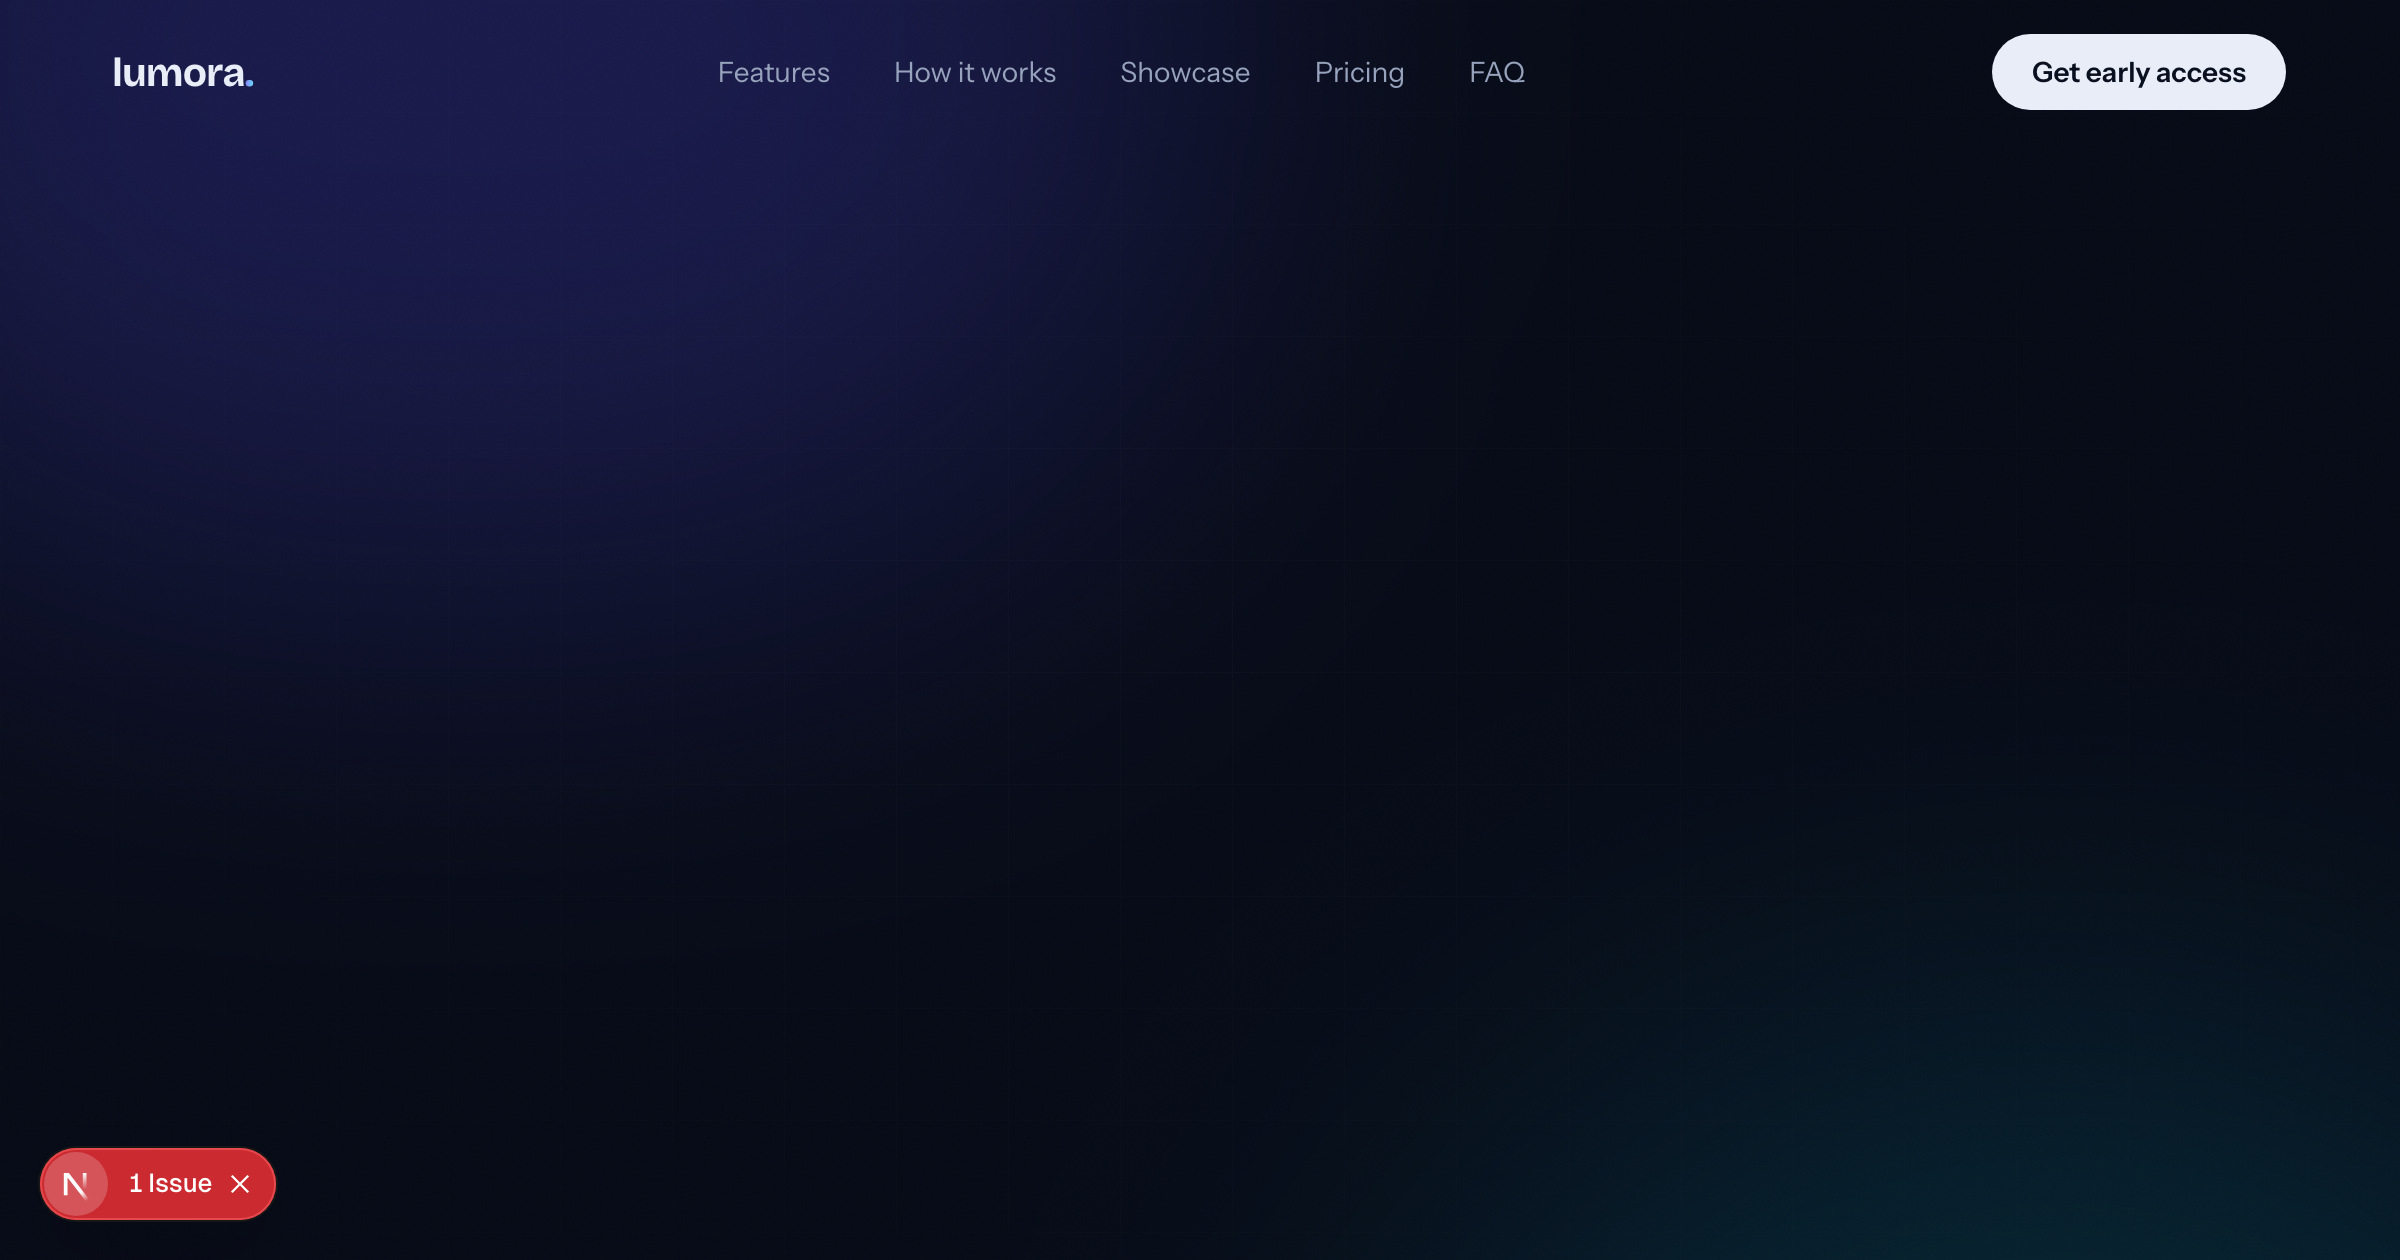
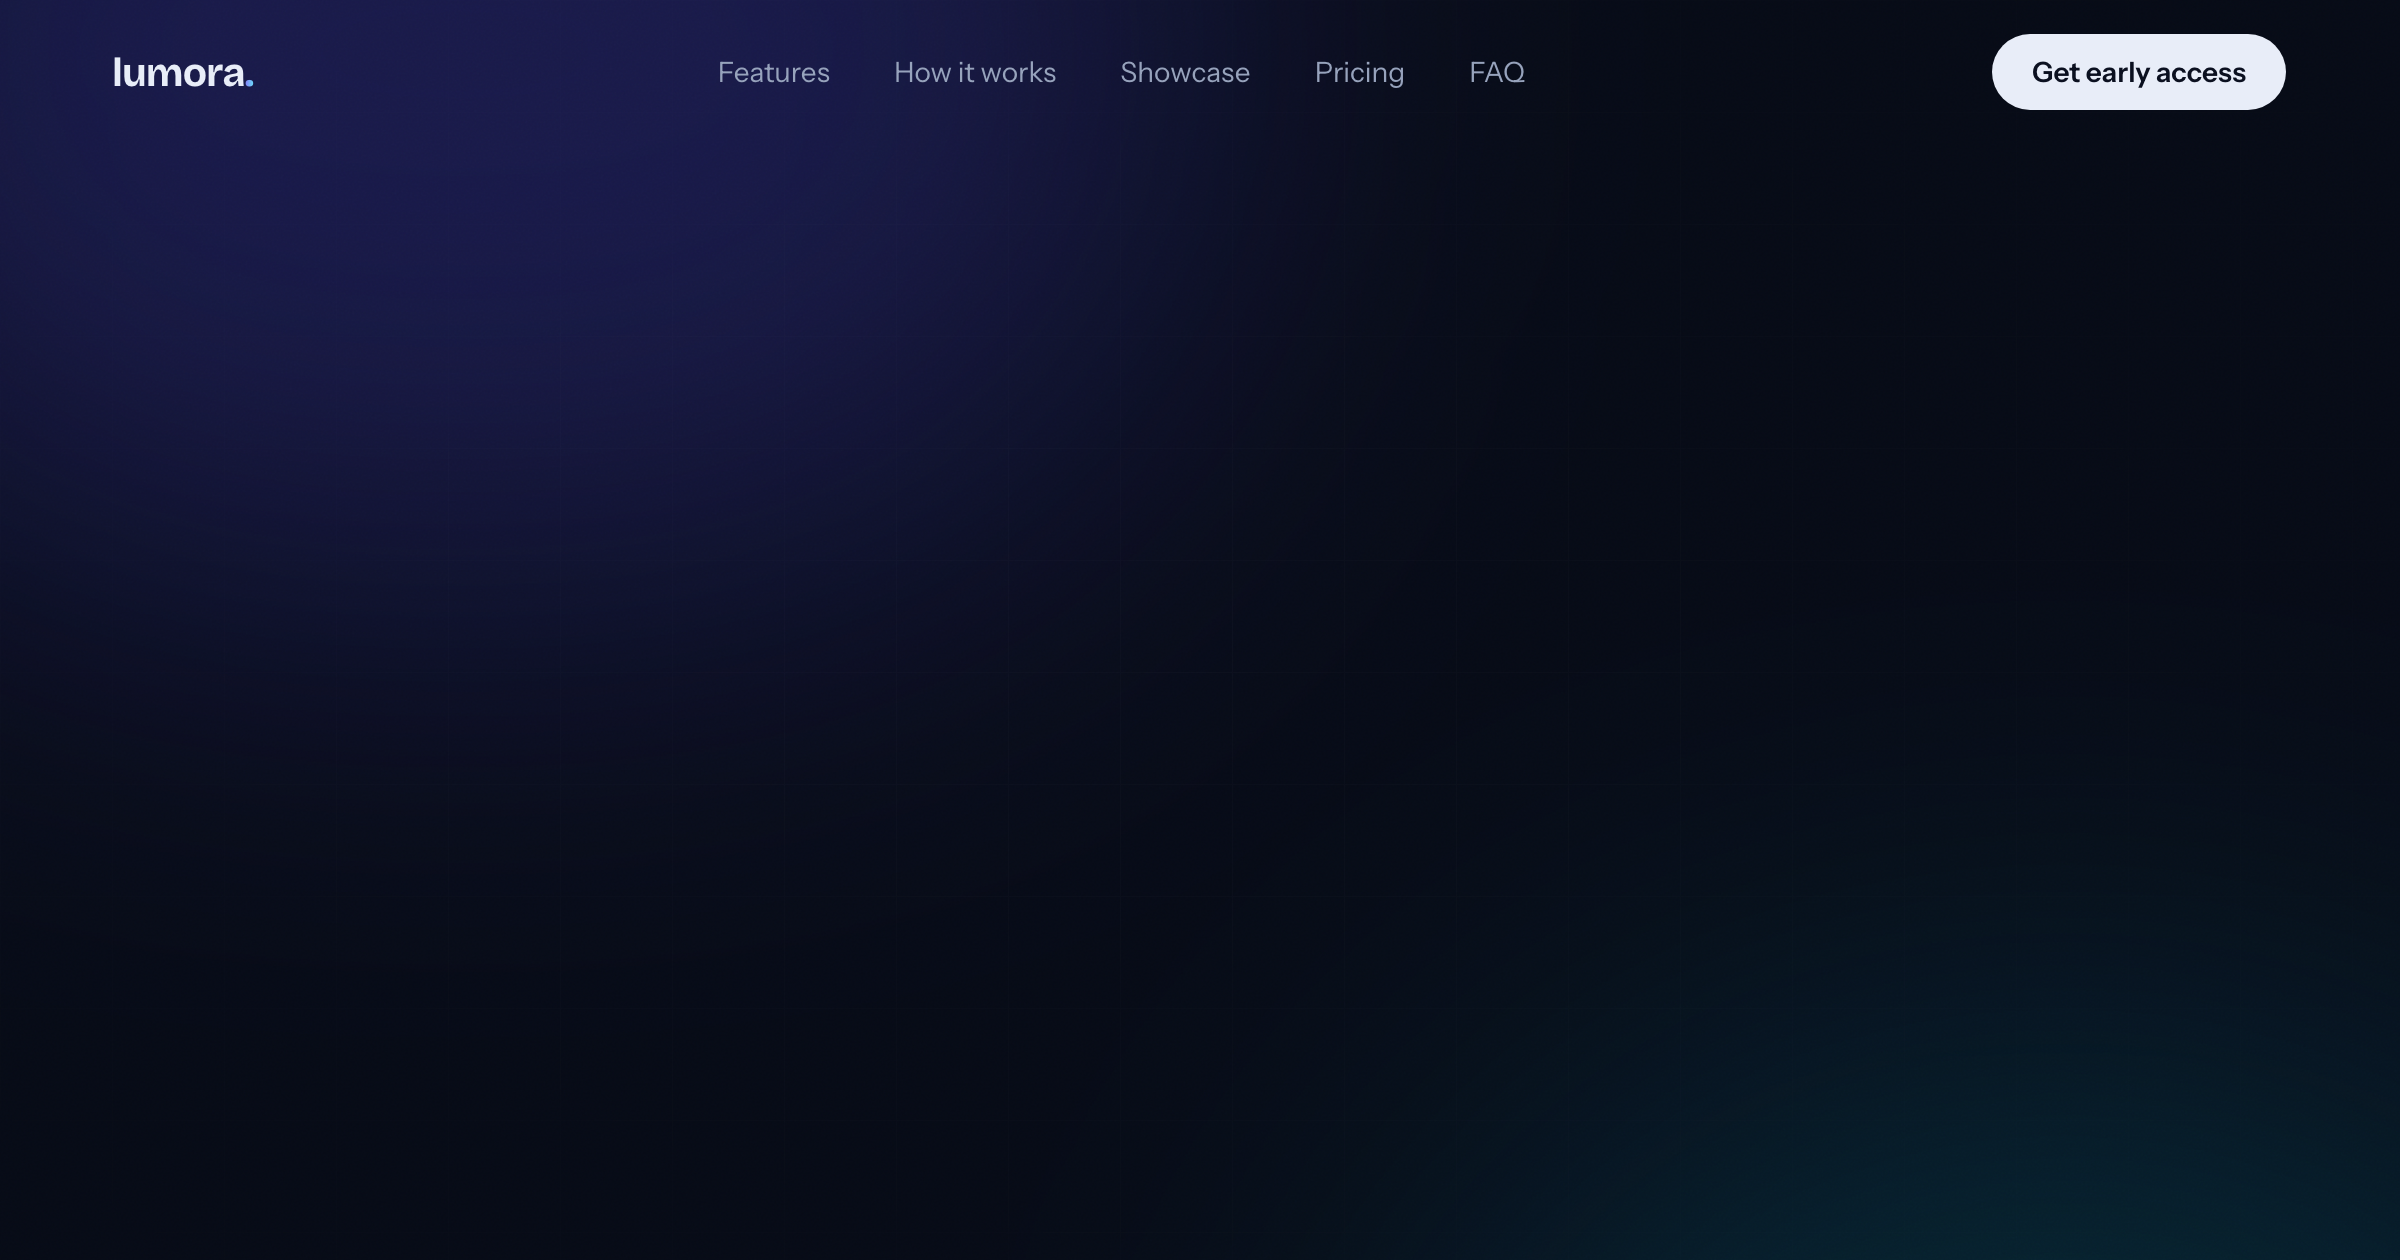
chore(landing): verification pass — reduced-motion fix, metadataBase, prod og
verify-landing PASS at desktop 1440 against the production build. Fixes found
by the pass: entrance wrappers no longer branch DOM shape on useReducedMotion
(hydration race left SSR opacity-0 styles stuck) — a prefers-reduced-motion CSS
rule now forces [data-reveal] visible; metadataBase set to an RFC-2606
placeholder so og/twitter URLs stop baking localhost:3000; og.png recaptured
from the production server. Keyboard pass: skip link, accordion, focus rings.

Changed region(s): [[0.0, 0.8976, 0.125, 0.9905]]

diff --git a/src/components/motion/stagger.tsx b/src/components/motion/stagger.tsx
@@ -1,8 +1,6 @@
 "use client";
 
-import { useReducedMotion } from "motion/react";
 import * as m from "motion/react-m";
-import { cn } from "@/lib/utils";
 
 const EASE = [0.22, 1, 0.36, 1] as const;
 
@@ -15,6 +13,10 @@ type StaggerProps = {
   inView?: boolean;
 };
 
+/**
+ * Staggered entrance group. Like Reveal, it always renders motion divs — the
+ * reduced-motion/no-JS safety net is the CSS rule on [data-reveal].
+ */
 export function Stagger({
   children,
   className,
@@ -22,10 +24,6 @@ export function Stagger({
   step = 0.08,
   inView = true,
 }: StaggerProps) {
-  const reduce = useReducedMotion();
-  if (reduce) {
-    return <div className={className}>{children}</div>;
-  }
   const viewProps = inView
     ? { whileInView: "show" as const, viewport: { once: true, margin: "-80px" } }
     : { animate: "show" as const };
@@ -53,14 +51,10 @@ type StaggerItemProps = {
 };
 
 export function StaggerItem({ children, className, y = 24, x = 0 }: StaggerItemProps) {
-  const reduce = useReducedMotion();
-  if (reduce) {
-    return <div className={className}>{children}</div>;
-  }
   return (
     <m.div
       data-reveal
-      className={cn(className)}
+      className={className}
       variants={{
         hidden: { opacity: 0, y, x },
         show: { opacity: 1, y: 0, x: 0, transition: { duration: 0.7, ease: EASE } },

diff --git a/src/components/motion/reveal.tsx b/src/components/motion/reveal.tsx
@@ -1,6 +1,5 @@
 "use client";
 
-import { useReducedMotion } from "motion/react";
 import * as m from "motion/react-m";
 
 const EASE = [0.22, 1, 0.36, 1] as const;
@@ -13,15 +12,12 @@ type RevealProps = {
 };
 
 /**
- * Scroll-entrance wrapper. Under prefers-reduced-motion it renders a plain div
- * so content can never be stuck at opacity 0. A <noscript> rule in the root
- * layout un-hides [data-reveal] elements for no-JS visitors.
+ * Scroll-entrance wrapper. Always renders the motion div (branching the DOM
+ * shape on useReducedMotion is hydration-race-unstable); reduced-motion and
+ * no-JS visitors are covered by CSS: a prefers-reduced-motion rule and a
+ * <noscript> rule in the root layout both force [data-reveal] visible.
  */
 export function Reveal({ children, className, delay = 0, y = 26 }: RevealProps) {
-  const reduce = useReducedMotion();
-  if (reduce) {
-    return <div className={className}>{children}</div>;
-  }
   return (
     <m.div
       data-reveal

diff --git a/src/app/layout.tsx b/src/app/layout.tsx
@@ -13,6 +13,10 @@ const DESCRIPTION =
   "Lumora finds local shops with no website, scores their digital presence, and generates an honest Gujarati-or-English demo site — ready before the first conversation.";
 
 export const metadata: Metadata = {
+  // RFC-2606 placeholder — swap for the real domain at deploy time. Without a
+  // base, Next absolutizes og/twitter image URLs against localhost:3000, which
+  // the verify harness rightly rejects as a baked foreign origin.
+  metadataBase: new URL("https://lumora.invalid"),
   title: TITLE,
   description: DESCRIPTION,
   openGraph: {

diff --git a/src/app/globals.css b/src/app/globals.css
@@ -185,5 +185,11 @@
       animation-iteration-count: 1 !important;
       transition-duration: 0.01ms !important;
     }
+    /* Entrance wrappers SSR at opacity 0; this outranks any inline style the
+       motion runtime leaves behind, whatever the hydration timing. */
+    [data-reveal] {
+      opacity: 1 !important;
+      transform: none !important;
+    }
   }
 }
